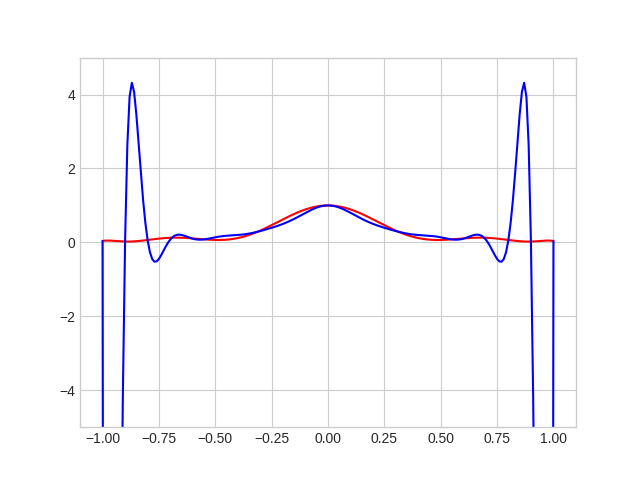
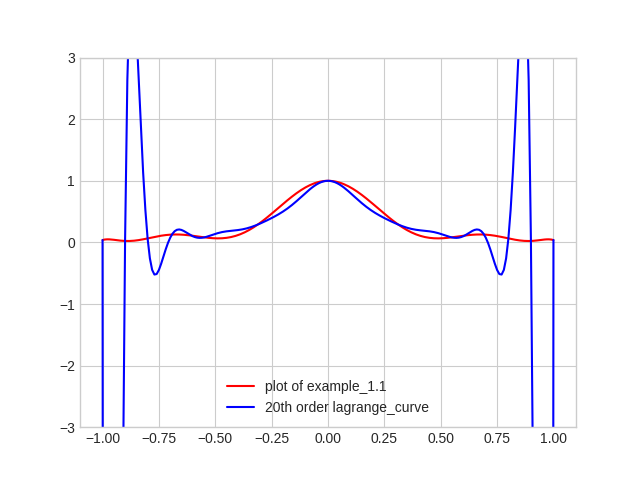
cleanup

diff --git a/hw1/code.py b/hw1/code.py
@@ -74,7 +74,8 @@ def main():
     fig1 = plt.figure()
     plt.style.use('seaborn-whitegrid')
     plt.plot(x,y1,'r'); plt.plot(x,y2,'b')
-    axes = plt.gca(); axes.set_ylim([-5,5])
+    plt.legend(["plot of example_1.1","20th order lagrange_curve"])
+    axes = plt.gca(); axes.set_ylim([-3,3])
     fig1.savefig('1_b')
     print('question 1 (b) figure saved in code directory')
 
@@ -97,7 +98,7 @@ def main():
     plt.plot(xplot,ylagrange,'r',linewidth=2)
     plt.plot(xplot,yspline,'b--',linewidth=2)
     plt.plot(x,lagrange(x,dat),'ro')
-    plt.plot(dat[:,0],dat[:,1],'*',linewidth=15)
+    plt.plot(dat[:,0],dat[:,1],'*w',linewidth=15)
     plt.legend(["intuitive_interpolation"\
             ,"cubic_spline_exterpolation_at_2009", "lagrange_curve"\
             ,"cubic_spline_curve","lagrange_exterpolation_at_2009"\
@@ -107,26 +108,33 @@ def main():
     dat2 = np.array([[1993,12.0],[1995,12.7],[1997,13]\
             ,[1999,15.2],[2001,18.2],[2003,19.8],[2005,24.1]\
             ,[2007,28.1]])
-    #dat.sort(key=lambda x: x[0])
     fig3 = plt.figure()
     plt.style.use('seaborn-whitegrid')
-    plt.plot(dat2[:,0],dat2[:,1],'#B8B8B8',linewidth=8)
     x = 2009
-    plt.plot(x,cubic_spline(x,dat2),'bo')
     xplot = np.arange(1992,x+0.1,0.1)
     ylagrange = np.empty(xplot.shape[0])
-    yspline = np.empty(xplot.shape[0])
     for i in range(xplot.shape[0]):
         ylagrange[i] = lagrange(xplot[i],dat2)
-        yspline[i] = cubic_spline(xplot[i],dat2)
-    plt.plot(xplot,ylagrange,'r',linewidth=2)
-    plt.plot(xplot,yspline,'b--',linewidth=2)
+    plt.plot(xplot,ylagrange,linewidth=2)
     plt.plot(x,lagrange(x,dat2),'ro')
     plt.plot(dat2[:,0],dat2[:,1],'*',linewidth=15)
-    plt.legend(["intuitive_interpolation"\
-            ,"cubic_spline_exterpolation_at_2009", "lagrange_curve"\
-            ,"cubic_spline_curve","lagrange_exterpolation_at_2009"\
+    plt.legend(["lagrange_curve","lagrange_exterpolation_at_2009"\
             ,"real_data"] , loc='lower left')
-    fig3.savefig('8')
+    fig3.savefig('8_a')
+
+    dat3 = np.copy(np.concatenate((dat2[:2,:],dat2[4:,:]),axis=0))
+    yspline = np.empty(xplot.shape[0])
+    for i in range(xplot.shape[0]):
+        ylagrange[i] = lagrange(xplot[i],dat3)
+        yspline[i] = cubic_spline(xplot[i],dat3)
+
+    fig4 = plt.figure()
+    plt.style.use('seaborn-whitegrid')
+    plt.plot(xplot,ylagrange,linewidth=2)
+    plt.plot(xplot,yspline,'g--',linewidth=2)
+    plt.plot(dat2[:,0],dat2[:,1],'*r',linewidth=15)
+    plt.legend(["lagrange_curve","cubic_spline_curve"\
+            ,"real_data"] , loc='upper left')
+    fig4.savefig('8_bc')
 
 main()

diff --git a/hw1/README.md b/hw1/README.md
@@ -1,9 +1,30 @@
 ## Homework 1, Questions 1,2,7,8 of fundamentals of Engineering Numerical Analysis 
 ### Question 1 
-### Question 2 
-### Question 3 
-### Question 4 
-
-<!-- Images -->
+(a) The interpolatd value at x=0.9 is 0.0235
+(b) As you can see below results for the lagrange curve are too far from the
+smooth real curve since it is a 20th order polynomial which meets all the 21
+equaly distanced points on the smooth Runge's curve"
 ![Alt text](./1_b.png?raw=true "some title")
+
+### Question 2 
+I thought about the chain law and came up with the solution which you can see
+below.
+![Alt text](./2.jpg?raw=true "some title")
+
+### Question 7 
+(a,b,c) Becouse of large error in results I conclude that the global \
+interpolation of Lagrange is not suitable for exterpolation \
+and is not capable of capturing smooth curves beyond the data limits.
+![Alt text](./8.png?raw=true "some title")
+
+### Question 8 
+(a) The prediction by Lagrange polynomial is way off and does not fallow the
+trend of the data points at all.
+![Alt text](./8_a.png?raw=true "some title")
+(b,c) cubic spline interpolation is much closer to the real data than the
+lagrange polynomial interpolation as expected. cubic spline is a local method
+for interpolation afterall.
+![Alt text](./8_bc.png?raw=true "some title")
+
+
 
